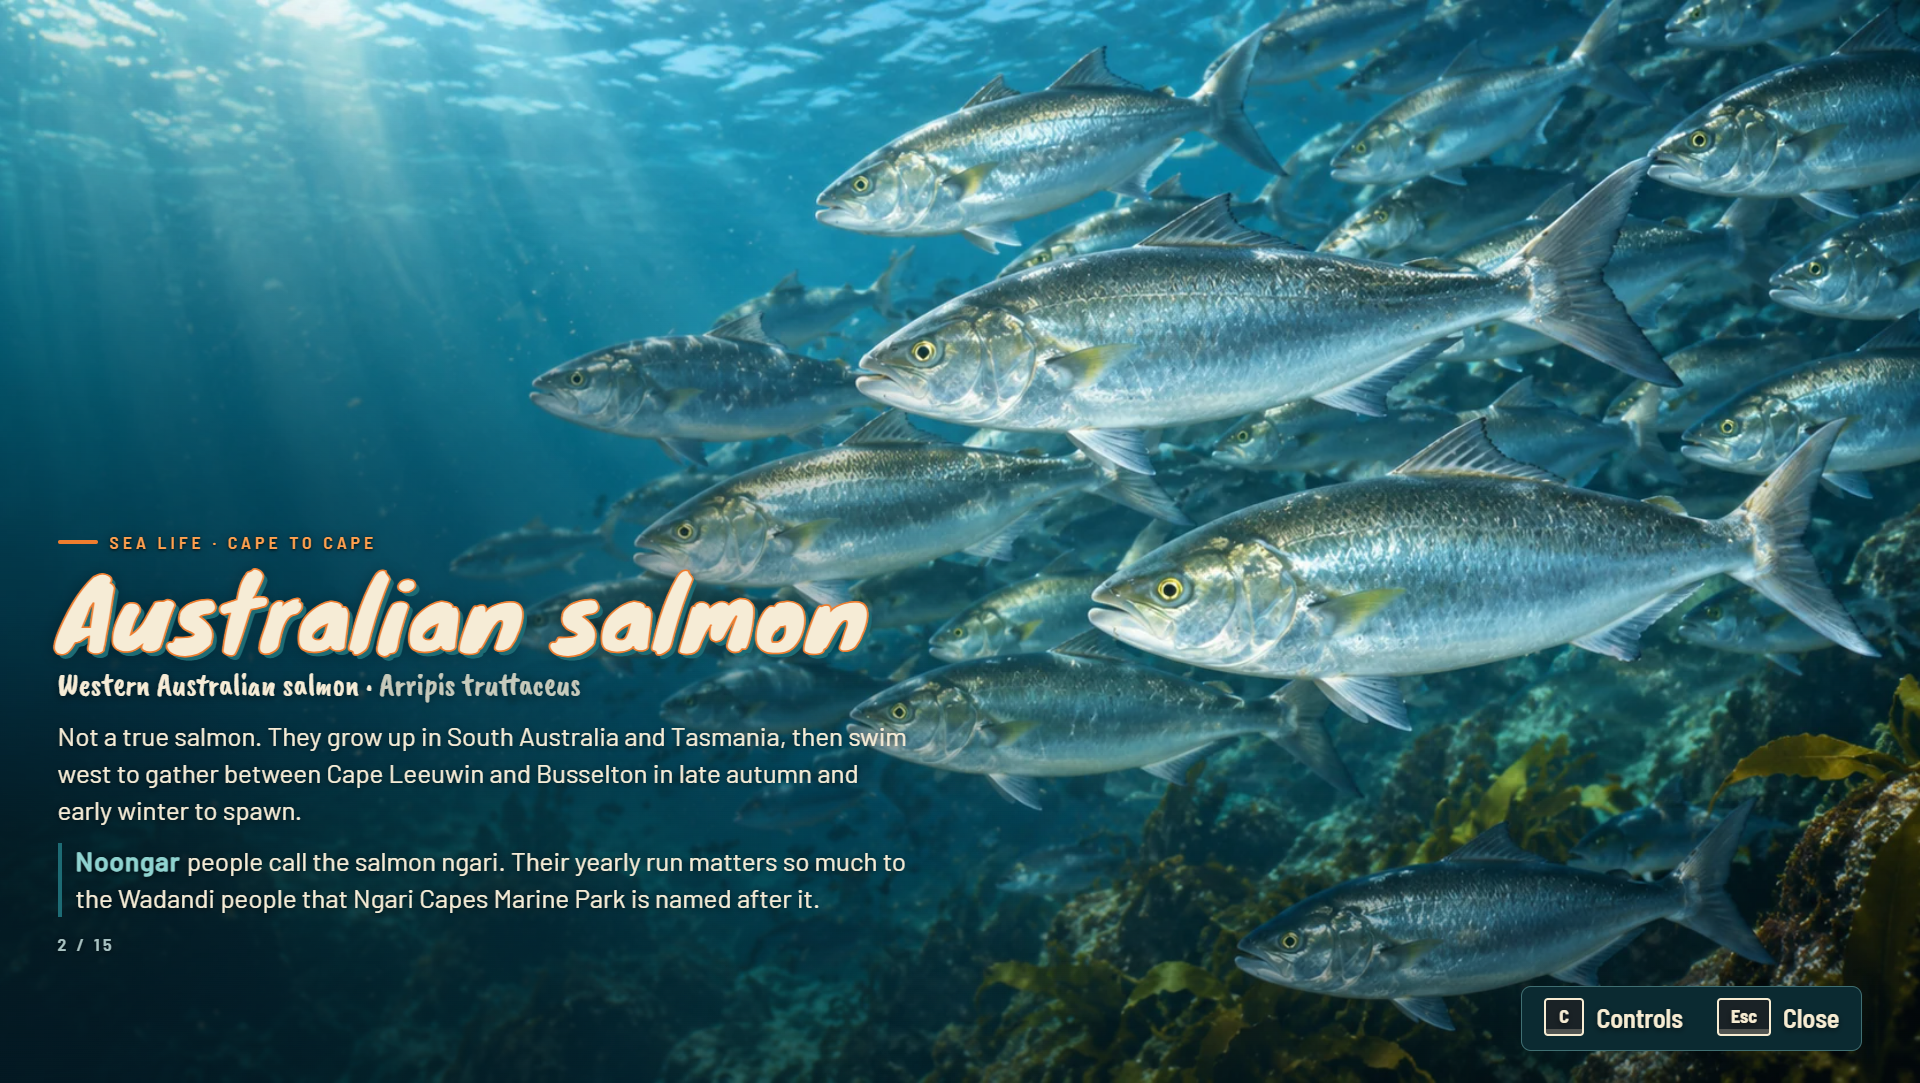
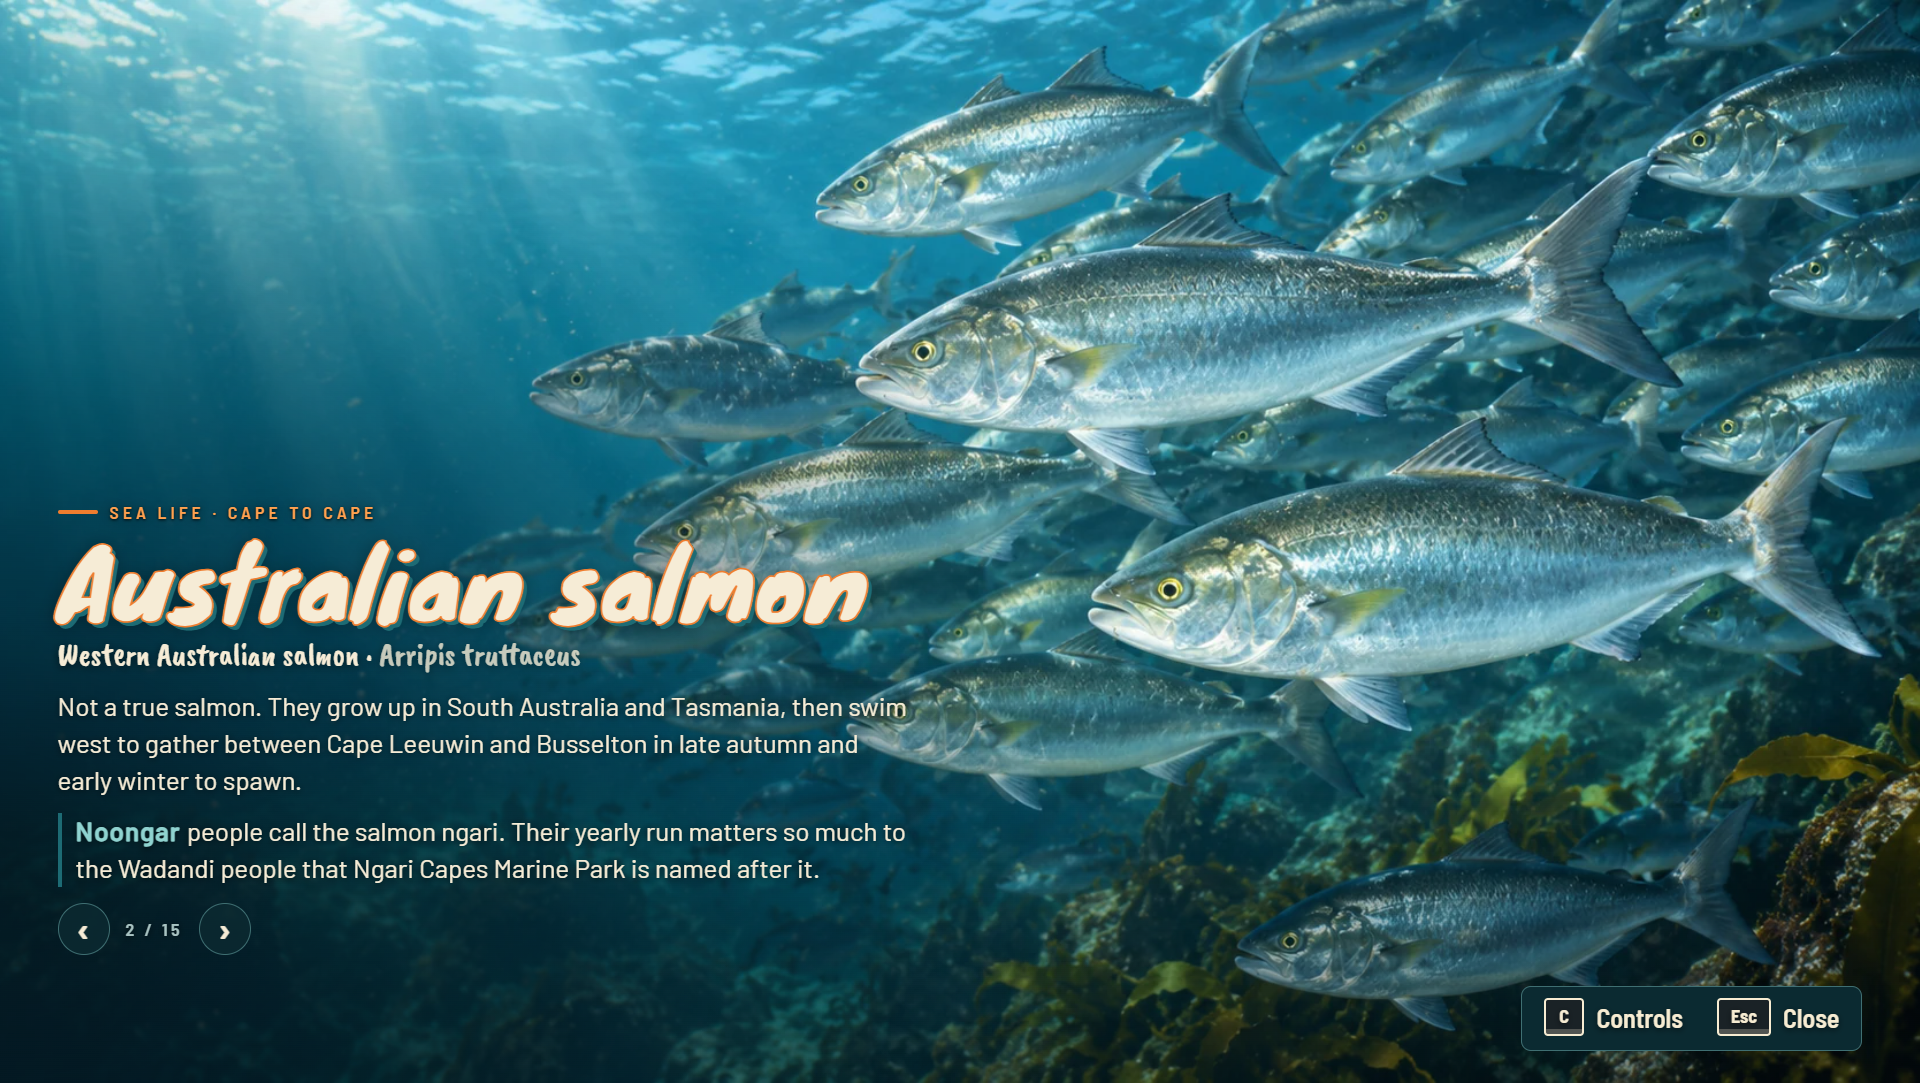
feat(library): click the open painting's ‹ › to page through the category

Changed region(s): [[0.0312, 0.4571, 0.4688, 0.8837]]

diff --git a/src/frontend/frontEnd.selftest.ts b/src/frontend/frontEnd.selftest.ts
@@ -439,6 +439,22 @@ registerSelfTest({
         if (under?.closest('.fe-lib-open')) problems.push('the closing picture still takes clicks (a double click would leave for the title)');
         await frames(fe, 2);
       }
+      // The open picture's ‹ › arrows page through the category by mouse; a click on them never closes the picture.
+      {
+        press('Enter'); await frames(fe, 10);
+        const at = fe.state!.library.entry, n = LIBRARY[fe.state!.library.cat].entries.length;
+        const next = host.querySelector('.fe-lib-step.is-next') as HTMLElement | null, prev = () => host.querySelector('.fe-lib-step.is-prev') as HTMLElement | null;
+        if (!next || !prev()) problems.push('the open picture has no ‹ › arrows');
+        else {
+          next.click(); await frames(fe, 2);
+          if (fe.state!.library.entry !== Math.min(n - 1, at + 1) || !fe.state!.library.open) problems.push(`› went to ${fe.state!.library.entry} (open ${fe.state!.library.open}), want ${at + 1}`);
+          prev()!.click(); await frames(fe, 2);
+          if (fe.state!.library.entry !== at || !fe.state!.library.open) problems.push(`‹ went to ${fe.state!.library.entry}, want ${at}`);
+          for (let k = 0; k < n; k++) { prev()!.click(); await frames(fe, 1); }
+          if (!prev()!.classList.contains('is-off')) problems.push('‹ is not off on the first painting');
+        }
+        press('Escape'); await frames(fe, 10);
+      }
       press('Enter'); await frames(fe, 10);
       if (!host.querySelector('.fe-lib.is-open')) problems.push('A did not open the picture');
       press('Escape'); await frames(fe, 10);

diff --git a/src/frontend/ui/frontEnd.css b/src/frontend/ui/frontEnd.css
@@ -244,6 +244,13 @@
 .fe-lib-card .fe-lib-sub { font-size: calc(32px * min(var(--fe-text), 1.5)); }
 .fe-lib-card .fe-lib-fact { font-size: calc(26px * min(var(--fe-text), 1.6)); max-width: 860px; }
 .fe-lib-count { margin-top: 16px; font: 600 calc(18px * min(var(--fe-text), 1.5)) 'Barlow Semi Condensed', sans-serif; letter-spacing: .18em; color: #a9c3c2; }
+/* The open picture's ‹ › arrows beside its count: the mouse's way to page (left/right on pad and keys). */
+.fe-lib-count { display: flex; align-items: center; gap: 16px; margin-top: 10px; }
+.fe-lib-step { display: inline-flex; align-items: center; justify-content: center; width: calc(52px * min(var(--fe-text), 1.15)); height: calc(52px * min(var(--fe-text), 1.15));
+  border: 1.5px solid #3f6f72; border-radius: 50%; background: rgba(11, 42, 49, .82); color: #f6ecd6; font: 600 calc(34px * min(var(--fe-text), 1.15)) / 1 Barlow, sans-serif;
+  letter-spacing: 0; text-shadow: none; cursor: pointer; transition: border-color 120ms linear, background-color 120ms linear, transform 120ms var(--fe-ease-out); }
+.fe-lib-step:hover { border-color: var(--fe-sun); background: #0b2a31; transform: scale(1.08); }
+.fe-lib-step.is-off { opacity: .3; cursor: default; pointer-events: none; }
 .is-calm .fe-lib, .is-calm .fe-lib *, .is-calm .fe-lib-open { transition: none !important; }
 /* The map under the Library: its UI hides (tabs stay), a dim layer darkens the chart. */
 .fe-map-dim { position: absolute; inset: 0; background: rgba(6, 22, 27, .72); opacity: 0; pointer-events: none; transition: opacity 220ms var(--fe-ease-out); }

diff --git a/docs/superpowers/mockups/library-codex/library.css b/docs/superpowers/mockups/library-codex/library.css
@@ -55,6 +55,13 @@
 .fe-lib-card .fe-lib-sub { font-size: calc(32px * min(var(--fe-text), 1.5)); }
 .fe-lib-card .fe-lib-fact { font-size: calc(26px * min(var(--fe-text), 1.6)); max-width: 860px; }
 .fe-lib-count { margin-top: 16px; font: 600 calc(18px * min(var(--fe-text), 1.5)) 'Barlow Semi Condensed', sans-serif; letter-spacing: .18em; color: #a9c3c2; }
+/* The open picture's ‹ › arrows beside its count: the mouse's way to page (left/right on pad and keys). */
+.fe-lib-count { display: flex; align-items: center; gap: 16px; margin-top: 10px; }
+.fe-lib-step { display: inline-flex; align-items: center; justify-content: center; width: calc(52px * min(var(--fe-text), 1.15)); height: calc(52px * min(var(--fe-text), 1.15));
+  border: 1.5px solid #3f6f72; border-radius: 50%; background: rgba(11, 42, 49, .82); color: #f6ecd6; font: 600 calc(34px * min(var(--fe-text), 1.15)) / 1 Barlow, sans-serif;
+  letter-spacing: 0; text-shadow: none; cursor: pointer; transition: border-color 120ms linear, background-color 120ms linear, transform 120ms var(--fe-ease-out); }
+.fe-lib-step:hover { border-color: var(--fe-sun); background: #0b2a31; transform: scale(1.08); }
+.fe-lib-step.is-off { opacity: .3; cursor: default; pointer-events: none; }
 .is-calm .fe-lib, .is-calm .fe-lib *, .is-calm .fe-lib-open { transition: none !important; }
 /* The map under the Library: its UI hides (tabs stay), a dim layer darkens the chart. */
 .fe-map-dim { position: absolute; inset: 0; background: rgba(6, 22, 27, .72); opacity: 0; pointer-events: none; transition: opacity 220ms var(--fe-ease-out); }

diff --git a/src/frontend/ui/libraryPanel.ts b/src/frontend/ui/libraryPanel.ts
@@ -94,7 +94,16 @@ export class LibraryPanel {
     const openKey = L.open ? `${e.key}` : '';
     if (openKey && openKey !== this.openKey) {
       const card = h('div', 'fe-lib-card');
-      card.append(...cardEls(e.card), h('div', 'fe-lib-count', `${L.entry + 1} / ${cat.entries.length}`));
+      // ‹ n / N ›: the mouse pages through the category as left/right do; a click here never closes the picture.
+      const step = (cls: string, glyph: string, action: FrontAction, off: boolean): HTMLElement => {
+        const b = h('span', `fe-lib-step ${cls}${off ? ' is-off' : ''}`, glyph);
+        b.dataset.hit = cls;
+        b.addEventListener('click', (ev) => { ev.stopPropagation(); if (!off) this.onPointer({ kind: 'action', action }); });
+        return b;
+      };
+      const count = h('div', 'fe-lib-count');
+      count.append(step('is-prev', '‹', 'left', L.entry === 0), h('span', '', `${L.entry + 1} / ${cat.entries.length}`), step('is-next', '›', 'right', L.entry === cat.entries.length - 1));
+      card.append(...cardEls(e.card), count);
       this.open.replaceChildren(img('fe-lib-open-img', libraryImage(e.key, 'full'), '100vw'), h('div', 'fe-lib-shade'), card);
     }
     this.openKey = openKey;

diff --git a/docs/superpowers/evidence/library/execution-ledger.md b/docs/superpowers/evidence/library/execution-ledger.md
@@ -60,3 +60,7 @@ Fable's review is still to come, in Andrew's orchestrator session. The reviewer 
 - Final: minor (deferred): the self-test can't see text spilling sideways inside a box (`scrollWidth > clientWidth`); MARSUPIALS at 200% only just fits its row.
 - Final: minor (deferred): the open view gives no hint that left/right page through the paintings (the spec's "◄► Next" was dropped in the plan).
 - Final: minor (deferred): `LibraryPanel.render` reads computed style and layout every frame while the Library is up.
+
+## Andrew's ask: click to the next/previous painting (2026-10-10)
+- The open view's count is now `‹ n / N ›`. The round ‹ › buttons page through the category as left/right do. A click on them never closes the picture (`stopPropagation`), and each is off (dimmed, unclickable) at its end. Design-px CSS in frontEnd.css and library.css; the size is capped at text ×1.15, because at ×1.5 the 200% card's kicker crossed the top safe line (W×H self-test, 1920×1080 and 2560×1080).
+- Self-test: "the open picture has no ‹ › arrows" RED, then GREEN (› +1 and still open, ‹ back, ‹ off on the first painting). Text-200% W×H cases 4/4 pass after the cap.
